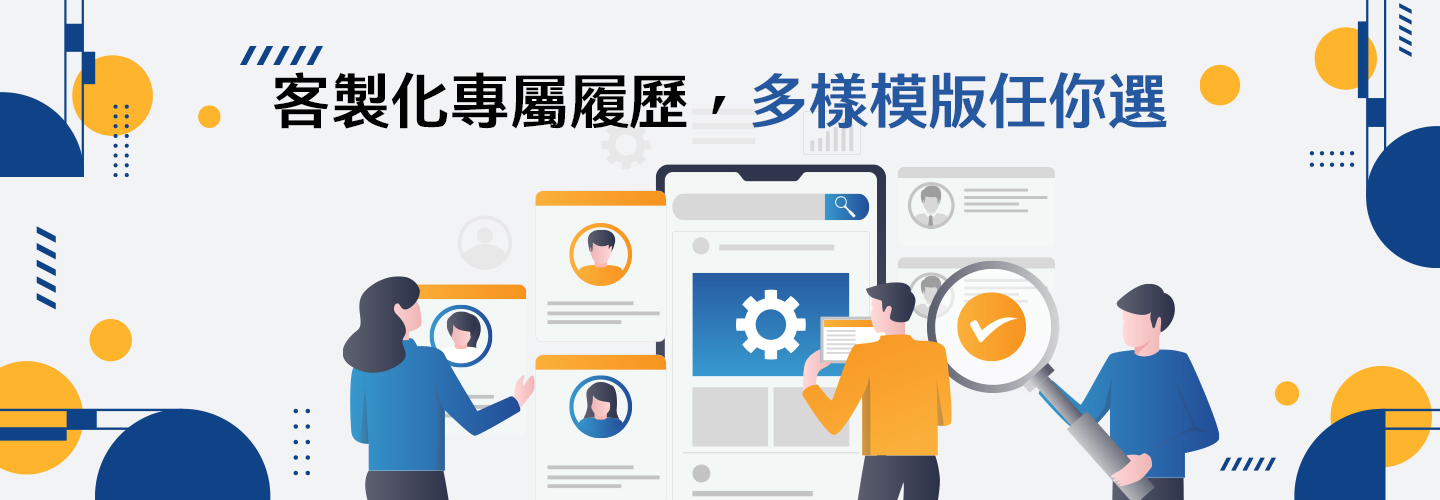
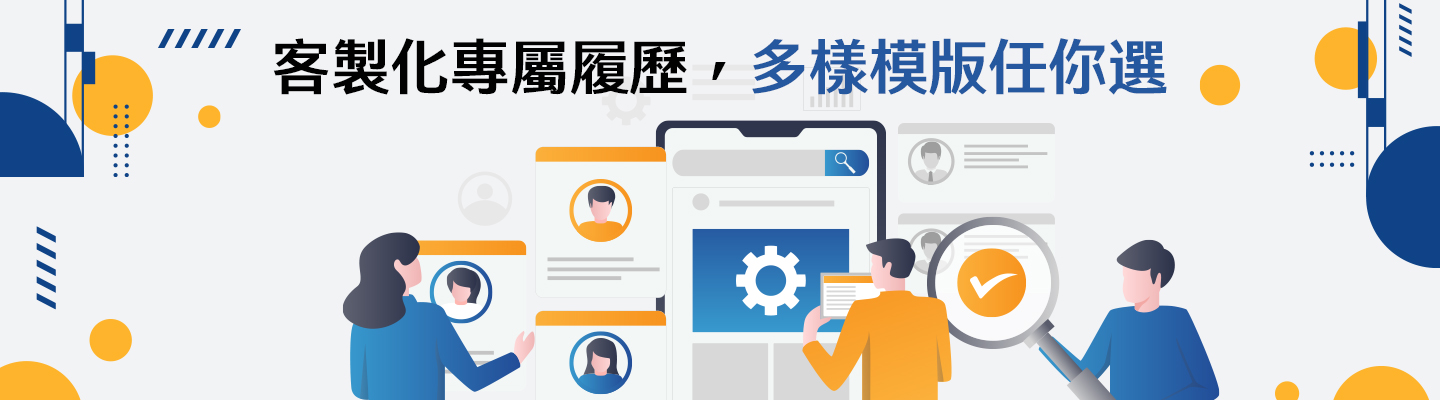
index 調整

diff --git a/vue/src/views/Index.vue b/vue/src/views/Index.vue
@@ -1,7 +1,7 @@
 <template>
   <v-row justify="center" class="white">
     <v-col cols="12" class="pa-0">
-      <v-carousel cycle hide-delimiter-background :show-arrows="false">
+      <v-carousel cycle hide-delimiter-background :show-arrows="false" :height="400">
         <v-carousel-item
           v-for="(item, i) in items"
           :key="i"
@@ -14,8 +14,12 @@
     <v-col col="9" lg="3" sm="3" class="my-5">
       <v-card class="mx-auto justify-center" max-width="250" :elevation="0">
         <v-img src="../assets/icon01.svg" height="290"></v-img>
-        <v-card-title class="d-flex justify-center text-center my-2"><h3>多種模版<br>隨時想換就換</h3>  </v-card-title>
-        <v-card-subtitle class="d-flex justify-center text-center pa-0 my-2"> 一鍵更換履歷模版 </v-card-subtitle>
+        <v-card-title class="d-flex justify-center text-center my-2"
+          ><h3>多種模版<br />隨時想換就換</h3>
+        </v-card-title>
+        <v-card-subtitle class="d-flex justify-center text-center pa-0 my-2">
+          多種樣式模版，不同職務搭配不同模版<br>只要一鍵，即可快速更換
+        </v-card-subtitle>
         <!-- <v-btn
           outlined
           color="blue"
@@ -30,8 +34,12 @@
     <v-col col="9" lg="3" sm="3" class="my-5">
       <v-card class="mx-auto" max-width="250" :elevation="0">
         <v-img src="../assets/icon02.svg" height="290"></v-img>
-        <v-card-title class="d-flex justify-center text-center my-2"><h3>是履歷表<br>也是個人網站</h3>  </v-card-title>
-        <v-card-subtitle class="d-flex justify-center text-center pa-0 my-2"> 一鍵更換履歷模版 </v-card-subtitle>
+        <v-card-title class="d-flex justify-center text-center my-2"
+          ><h3>是履歷表<br />也是個人網站</h3>
+        </v-card-title>
+        <v-card-subtitle class="d-flex justify-center text-center pa-0 my-2">
+          除了是履歷表，也是作品集網站<br>讓你的作品一目瞭然精彩呈現
+        </v-card-subtitle>
         <!-- <v-btn
           outlined
           color="blue"
@@ -46,8 +54,12 @@
     <v-col col="9" lg="3" sm="3" class="my-5">
       <v-card class="mx-auto justify-center" max-width="250" :elevation="0">
         <v-img src="../assets/icon01.svg" height="290"></v-img>
-        <v-card-title class="d-flex justify-center text-center my-2"><h3>客製化模版<br>隨我設計</h3>  </v-card-title>
-        <v-card-subtitle class="d-flex justify-center text-center pa-0 my-2"> 一鍵更換履歷模版 </v-card-subtitle>
+        <v-card-title class="d-flex justify-center text-center my-2"
+          ><h3>客製化模版<br />隨我設計</h3>
+        </v-card-title>
+        <v-card-subtitle class="d-flex justify-center text-center pa-0 my-2">
+          一鍵更換履歷模版
+        </v-card-subtitle>
         <!-- <v-btn
           outlined
           color="blue"
@@ -74,16 +86,16 @@ export default {
     show: false,
     items: [
       {
-        src: "../assets/slider01.jpg"
+        src: require("../assets/slider01.jpg")
       },
       {
-        src: "https://cdn.vuetifyjs.com/images/carousel/sky.jpg"
+        src: require("../assets/slider01.jpg")
       },
       {
-        src: "https://cdn.vuetifyjs.com/images/carousel/bird.jpg"
+        src: require("../assets/slider01.jpg")
       },
       {
-        src: "https://cdn.vuetifyjs.com/images/carousel/planet.jpg"
+        src: require("../assets/slider01.jpg")
       }
     ]
   }),

diff --git a/vue/src/components/theNavigator.vue b/vue/src/components/theNavigator.vue
@@ -13,7 +13,7 @@
         ></v-img>
       </router-link>
     </div>
-    
+
     <v-btn
       class="mr-2 font-weight-bold"
       v-for="(item, index) in links"
